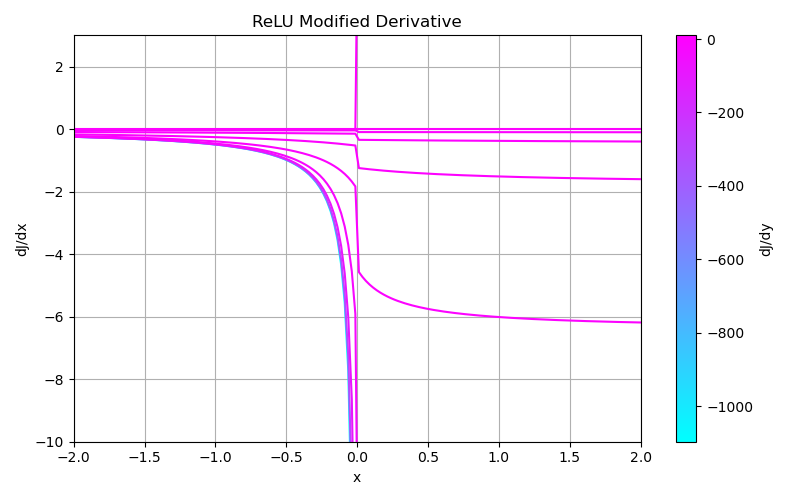
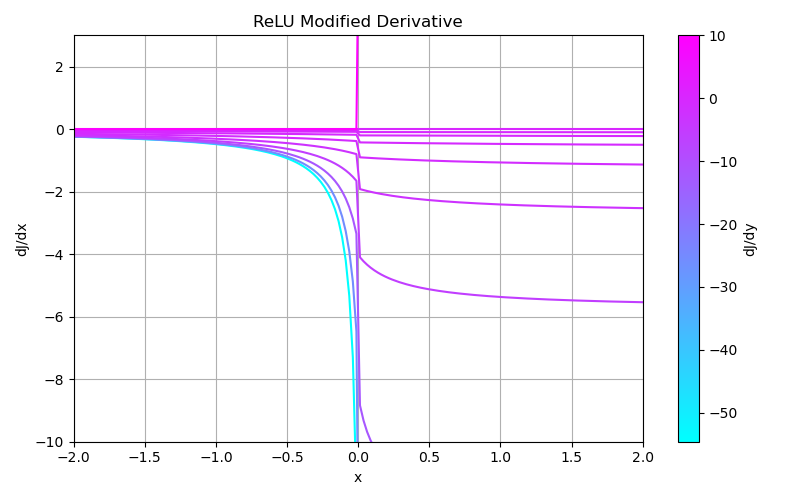
GModReLU

diff --git a/GModReLU.py b/GModReLU.py
@@ -1,0 +1,51 @@
+import torch
+import torch.nn as nn
+import torch.nn.functional as F
+
+class GModReLUFunction(torch.autograd.Function):
+    """
+    Hyperbolic kernel
+    f(x) = \frac{\lambda}{1 - x/k\lambda}
+
+    Forward:
+    y = R(x) = max(0,x)
+
+    Backwards:
+    \frac{\del J}{\del X} \approx 
+    """
+
+    @staticmethod
+    def forward(ctx, input,l,k):
+        ctx.save_for_backward(input)
+        ctx.l = l 
+        ctx.k = k
+        return F.relu(input)
+
+    @staticmethod
+    def backward(ctx, grad_output):
+        input, = ctx.saved_tensors
+        l, k = ctx.l, ctx.k
+        if l == 0 or k == 0:
+            grad_input = (input > 0).float() * grad_output
+        else:
+            # Standard ReLU mask
+            positive_mask = (input > 0).float()
+            kernel = l/ (1 + torch.abs(input*grad_output)/(l*k))
+            grad_input = torch.where(
+                grad_output > 0,
+                positive_mask,
+                positive_mask - torch.sign(input)*kernel)*grad_output
+        return grad_input, None, None
+
+class GModReLU(nn.Module):
+    def __init__(self, l = 0.1,k = 5.5):
+        """
+        negative_grad_scale: float, how much gradient to inject in dead regions
+        mode: 'positive_only' or 'full'
+        """
+        super().__init__()
+        self.l = l
+        self.k = k
+
+    def forward(self, input):
+        return GModReLUFunction.apply(input, self.l, self.k)
